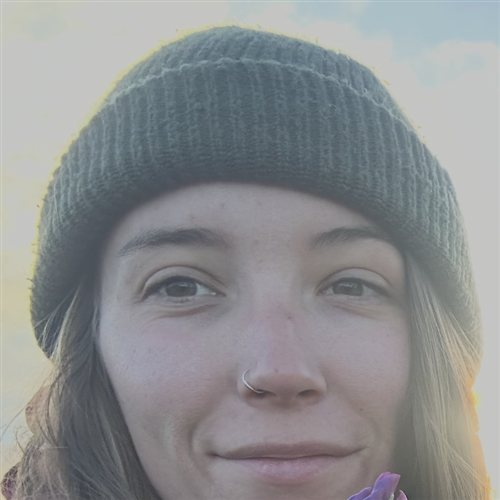
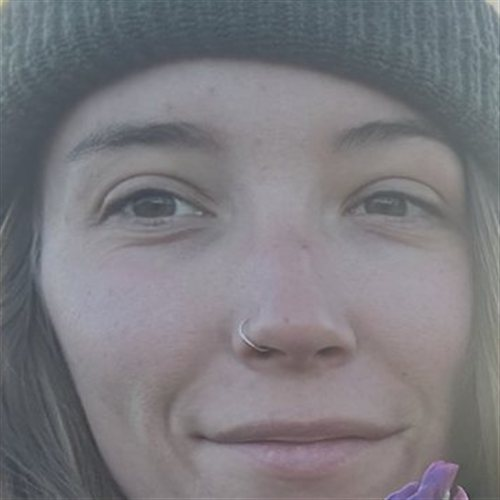
Even out team card heights and recenter Kat's photo
Adds height:100% to each Meet Our Team box so cards sitting side by
side stretch to match each other's height instead of one looking
shorter. Also re-crops Kat's photo to center her face better in the
circular avatar.

diff --git a/about.html b/about.html
@@ -92,7 +92,7 @@
       <div class="columns is-multiline">
         <!-- Team Member 1 -->
         <div class="column is-6">
-          <div class="box is-flex is-align-items-center" style="background-color: white; gap: 1.5rem;">
+          <div class="box is-flex is-align-items-center" style="background-color: white; gap: 1.5rem; height: 100%;">
             <div
               style="flex-shrink: 0; width: 100px; height: 100px; border-radius: 50%; overflow: hidden; background-color: var(--flf-light-green);">
               <img src="team-photos/frank-zumbo.jpg" alt="Frank &quot;Nick&quot; Zumbo"
@@ -109,7 +109,7 @@
 
         <!-- Team Member 2 -->
         <div class="column is-6">
-          <div class="box is-flex is-align-items-center" style="background-color: white; gap: 1.5rem;">
+          <div class="box is-flex is-align-items-center" style="background-color: white; gap: 1.5rem; height: 100%;">
             <div
               style="flex-shrink: 0; width: 100px; height: 100px; border-radius: 50%; overflow: hidden; background-color: var(--flf-light-green);">
               <img src="team-photos/melissa-dowling.jpg" alt="Melissa Dowling"
@@ -126,7 +126,7 @@
 
         <!-- Team Member 3 -->
         <div class="column is-6">
-          <div class="box is-flex is-align-items-center" style="background-color: white; gap: 1.5rem;">
+          <div class="box is-flex is-align-items-center" style="background-color: white; gap: 1.5rem; height: 100%;">
             <div
               style="flex-shrink: 0; width: 100px; height: 100px; border-radius: 50%; overflow: hidden; background-color: var(--flf-light-green);">
               <img src="team-photos/corry-allenburg.jpg" alt="Corrigan &quot;Corry&quot; Allenburg"
@@ -143,7 +143,7 @@
 
         <!-- Team Member 4 -->
         <div class="column is-6">
-          <div class="box is-flex is-align-items-center" style="background-color: white; gap: 1.5rem;">
+          <div class="box is-flex is-align-items-center" style="background-color: white; gap: 1.5rem; height: 100%;">
             <div
               style="flex-shrink: 0; width: 100px; height: 100px; border-radius: 50%; overflow: hidden; background-color: var(--flf-light-green);">
               <img src="team-photos/kat-hirak.jpg" alt="Kat Hirak"
@@ -161,7 +161,7 @@
 
         <!-- Team Member 5 -->
         <div class="column is-6">
-          <div class="box is-flex is-align-items-center" style="background-color: white; gap: 1.5rem;">
+          <div class="box is-flex is-align-items-center" style="background-color: white; gap: 1.5rem; height: 100%;">
             <div
               style="flex-shrink: 0; width: 100px; height: 100px; border-radius: 50%; overflow: hidden; background-color: var(--flf-light-green);">
               <img src="team-photos/drew-willard.jpg" alt="Drew Willard"
@@ -179,7 +179,7 @@
 
         <!-- Team Member 6 -->
         <div class="column is-6">
-          <div class="box is-flex is-align-items-center" style="background-color: white; gap: 1.5rem;">
+          <div class="box is-flex is-align-items-center" style="background-color: white; gap: 1.5rem; height: 100%;">
             <div
               style="flex-shrink: 0; width: 100px; height: 100px; border-radius: 50%; background-color: var(--flf-light-green); display: flex; align-items: center; justify-content: center;">
               <i class="fas fa-user" style="font-size: 2.5rem; color: var(--flf-medium-green);"></i>
